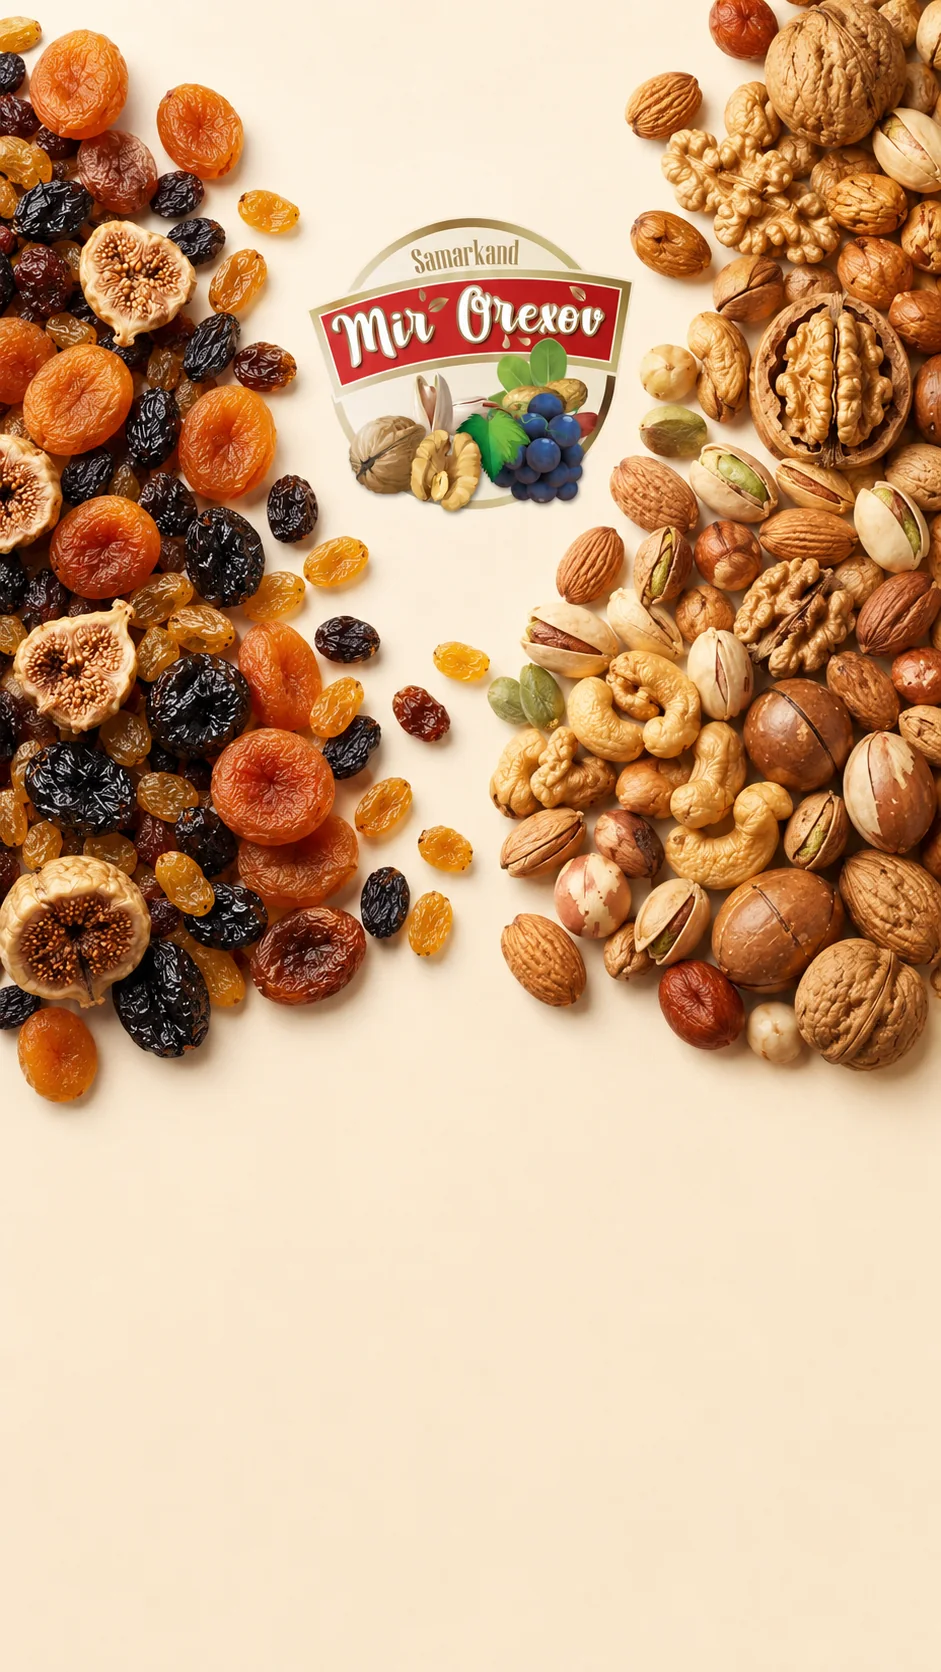
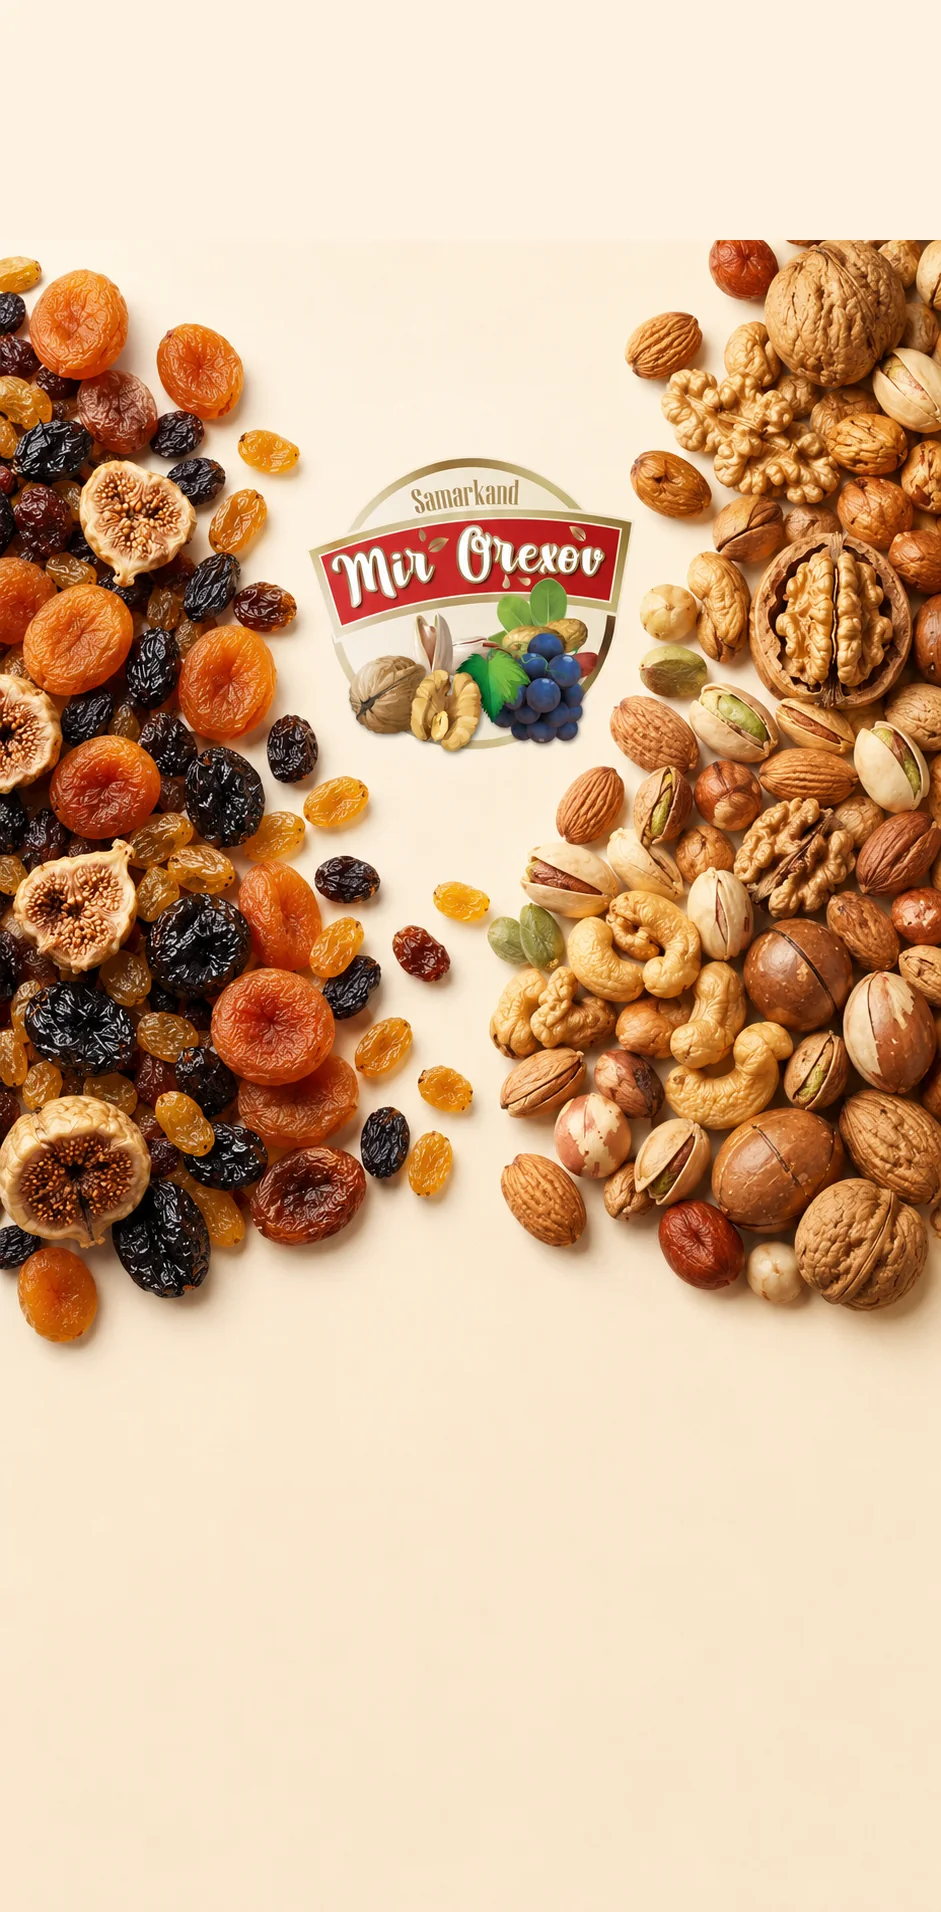
Catalog hero: drop the glow, lower the phone artwork in the asset itself
The cream halo added around every hero and header label to lift it off the
artwork read as a glow. It is gone: weight and a dark ink carry the type
instead. The language switch keeps its translucent chip — two letters have no
mass to carry contrast on their own.

Lowering the phone artwork was impossible from CSS: the portrait cut matches a
phone viewport almost exactly, so cover leaves no vertical overflow and
object-position has nothing to pan; the previous attempt moved the whole media
box down and left a flat cream band behind the transparent bars that read as a
solid header. The shift is therefore baked into the asset — 240px of the
artwork's own ground (sampled from its top edge) added above the composition.
The mark drops from 21% to 31% of the screen with 25px of side crop, the bars
stay genuinely transparent over the picture, and the copy hugs the bottom so it
stays inside the empty area the artwork ends with.

diff --git a/assets/css/style.css b/assets/css/style.css
@@ -2769,6 +2769,36 @@ html.intro-seen .preloader { display: none; }
   box-shadow: none;
 }
 
+/* Over a busy picture a transparent bar still has to be legible, but a halo
+   on every label reads as a glow. Weight and a dark ink carry the running
+   text; the language switch is two letters with no mass to carry anything, so
+   it keeps a translucent cream chip. */
+.hero-page--light .top-bar:not(.nav-lifted) .top-bar-item,
+.hero-page--light .navbar:not(.nav-lifted):not(.menu-open) .nav-menu a,
+.hero-page--light .navbar:not(.nav-lifted):not(.menu-open) .brand-name strong,
+.hero-page--light .navbar:not(.nav-lifted):not(.menu-open) .nav-toggle {
+  color: var(--brown-900);
+  font-weight: 700;
+}
+.hero-page--light .navbar:not(.nav-lifted):not(.menu-open) .brand-name span {
+  color: var(--gold-900);
+  font-weight: 700;
+}
+.hero-page--light .navbar:not(.nav-lifted):not(.menu-open) .lang-switch {
+  background: rgba(254, 252, 246, 0.82);
+  backdrop-filter: blur(8px);
+  border-color: rgba(45, 28, 21, 0.28);
+}
+.hero-page--light .navbar:not(.nav-lifted):not(.menu-open) .lang-switch a,
+.hero-page--light .navbar:not(.nav-lifted):not(.menu-open) .lang-switch button {
+  color: var(--brown-800);
+  font-weight: 700;
+}
+.hero-page--light .navbar:not(.nav-lifted):not(.menu-open) .lang-switch .active {
+  background: var(--brown-900);
+  color: var(--cream-50);
+}
+
 /* ---- Solid state: curtain closed, or the mobile menu open ---- */
 .hero-page .top-bar.nav-lifted {
   background: var(--cream-200);
@@ -2816,51 +2846,26 @@ html.intro-seen .preloader { display: none; }
 
 
 /* ---- Artwork hero ----
-   A composed product graphic rather than a photograph, and it is shown exactly
-   as delivered: no wash, no mask, no panel over the picture. Legibility is
-   carried entirely by the type — heavier weight plus a tight cream halo on the
-   glyphs, which lights the few millimetres around each letter without touching
-   the product behind it. */
+   A composed product graphic rather than a photograph, shown exactly as
+   delivered: no wash, no mask, no panel. Readability comes from weight and a
+   dark ink only — an earlier cream halo around the glyphs made the type look
+   like it was glowing. */
 .page-hero--art .page-hero__media::after { background: none; }
 
-.page-hero--art .page-hero__kicker {
-  color: var(--gold-800);
-  font-weight: 700;
-  text-shadow: 0 0 10px rgba(254, 252, 246, 0.95), 0 0 20px rgba(254, 252, 246, 0.8);
-}
-.page-hero--art h1 {
-  color: var(--brown-900);
-  font-weight: 700;
-  text-shadow:
-    0 0 12px rgba(254, 252, 246, 0.98),
-    0 0 26px rgba(254, 252, 246, 0.9),
-    0 0 46px rgba(254, 252, 246, 0.7);
-}
-.page-hero--art .page-hero__lead {
-  color: var(--brown-900);
-  font-weight: 700;
-  text-shadow:
-    0 0 8px rgba(254, 252, 246, 0.98),
-    0 0 16px rgba(254, 252, 246, 0.95),
-    0 0 30px rgba(254, 252, 246, 0.8),
-    0 1px 1px rgba(254, 252, 246, 1);
-}
-.page-hero--art .page-hero__scroll {
-  color: var(--brown-900);
-  text-shadow: 0 0 12px rgba(254, 252, 246, 0.95);
-}
+.page-hero--art .page-hero__kicker { color: var(--gold-900); font-weight: 800; }
+.page-hero--art h1 { color: var(--brown-900); font-weight: 700; }
+.page-hero--art .page-hero__lead { color: var(--brown-900); font-weight: 700; }
+.page-hero--art .page-hero__scroll { color: var(--brown-900); }
 
 @media (max-width: 720px) {
-  /* The portrait cut matches the viewport almost exactly, so object-position
-     had nothing to pan — the artwork simply started under the bars with its top
-     row of fruit hidden. It is lowered by the height of the two bars instead,
-     which drops the mark and both product masses towards the middle of the
-     screen and lets the hero's own cream (sampled from the artwork's ground)
-     fill the strip behind the transparent header. */
-  .page-hero--art { background: #FAE8CD; }
-  .page-hero--art .page-hero__media { top: calc(var(--topbar-h) + var(--navbar-h)); }
+  /* The phone artwork carries 240px of its own cream added above the
+     composition, which drops the mark from 21% to about 31% of the screen —
+     CSS could not do this because the portrait cut matches the viewport almost
+     exactly, leaving object-position nothing to pan. The copy hugs the bottom
+     so it stays inside the empty area the artwork ends with. */
+  .page-hero--art { background: #FEF4E2; }
   .page-hero--art .page-hero__media img { object-position: 50% center; }
-  .page-hero--art .page-hero__inner { justify-content: flex-end; padding-bottom: 88px; }
+  .page-hero--art .page-hero__inner { justify-content: flex-end; padding-bottom: 40px; }
 }
 
 /* Catalog breadcrumbs sit at the top of the content curtain, where the
